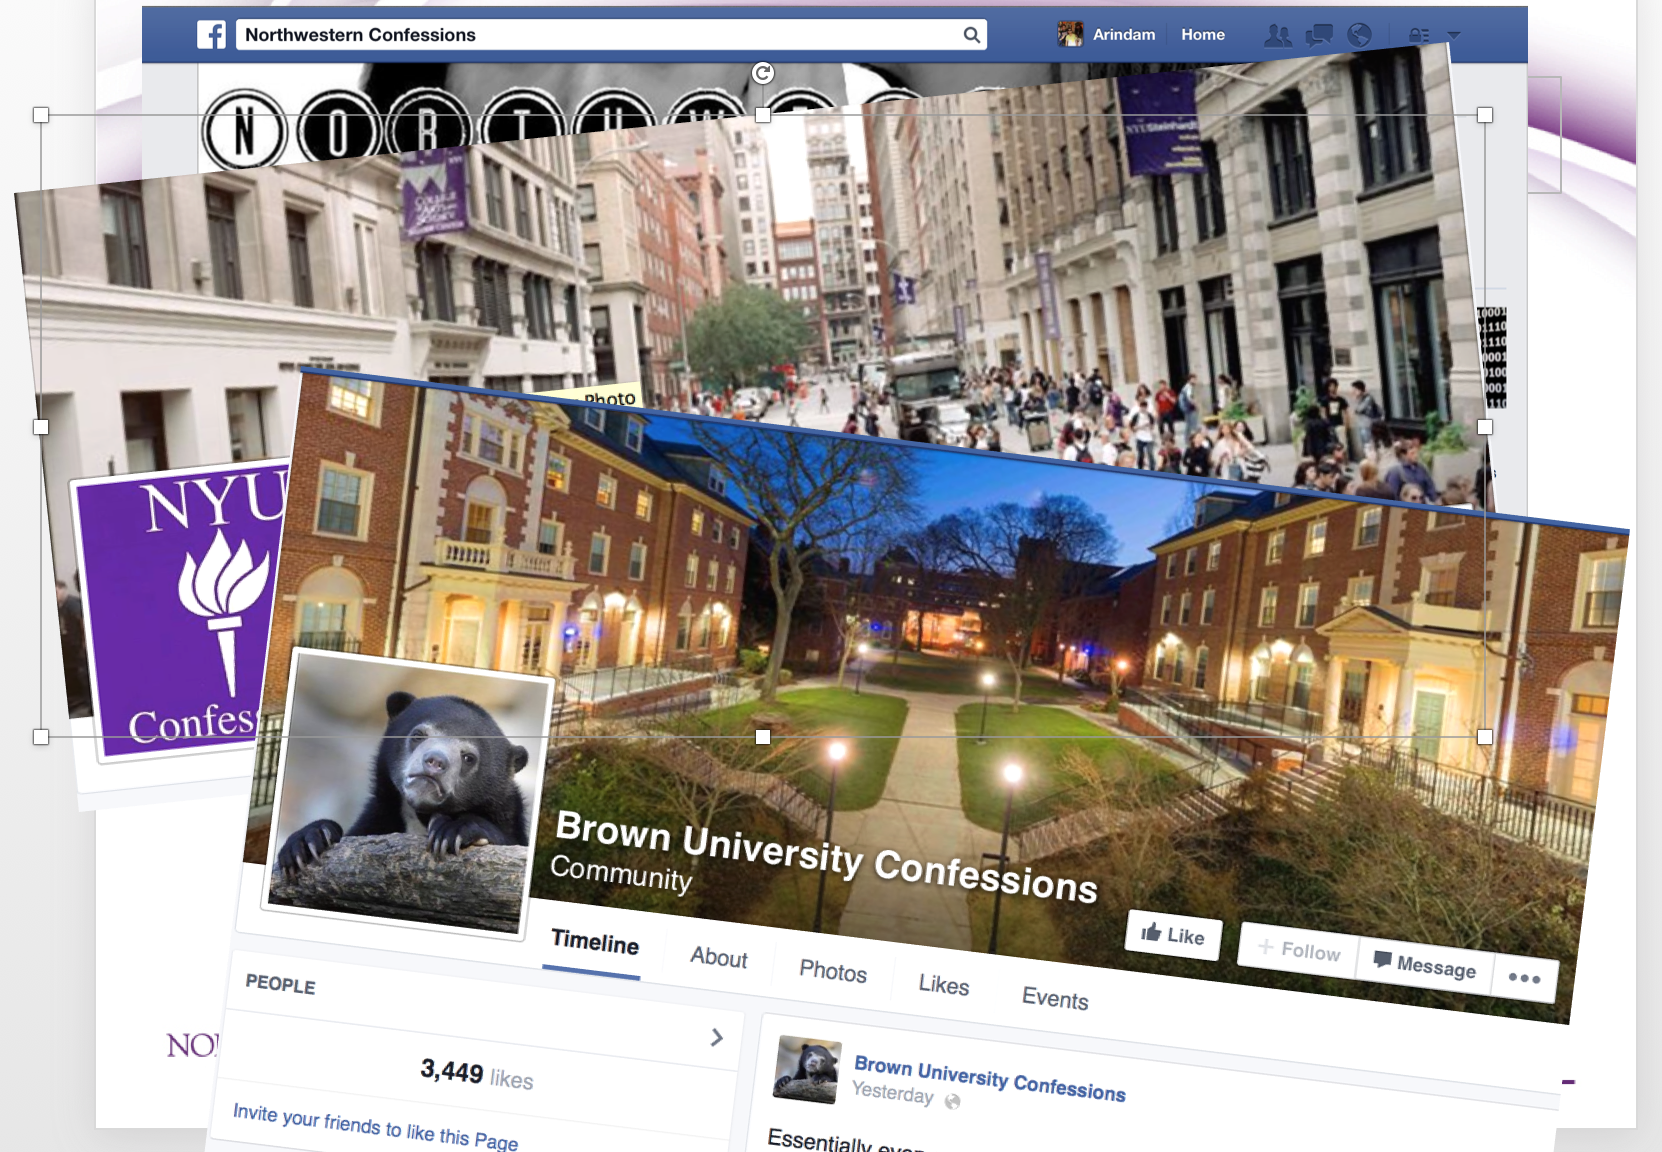
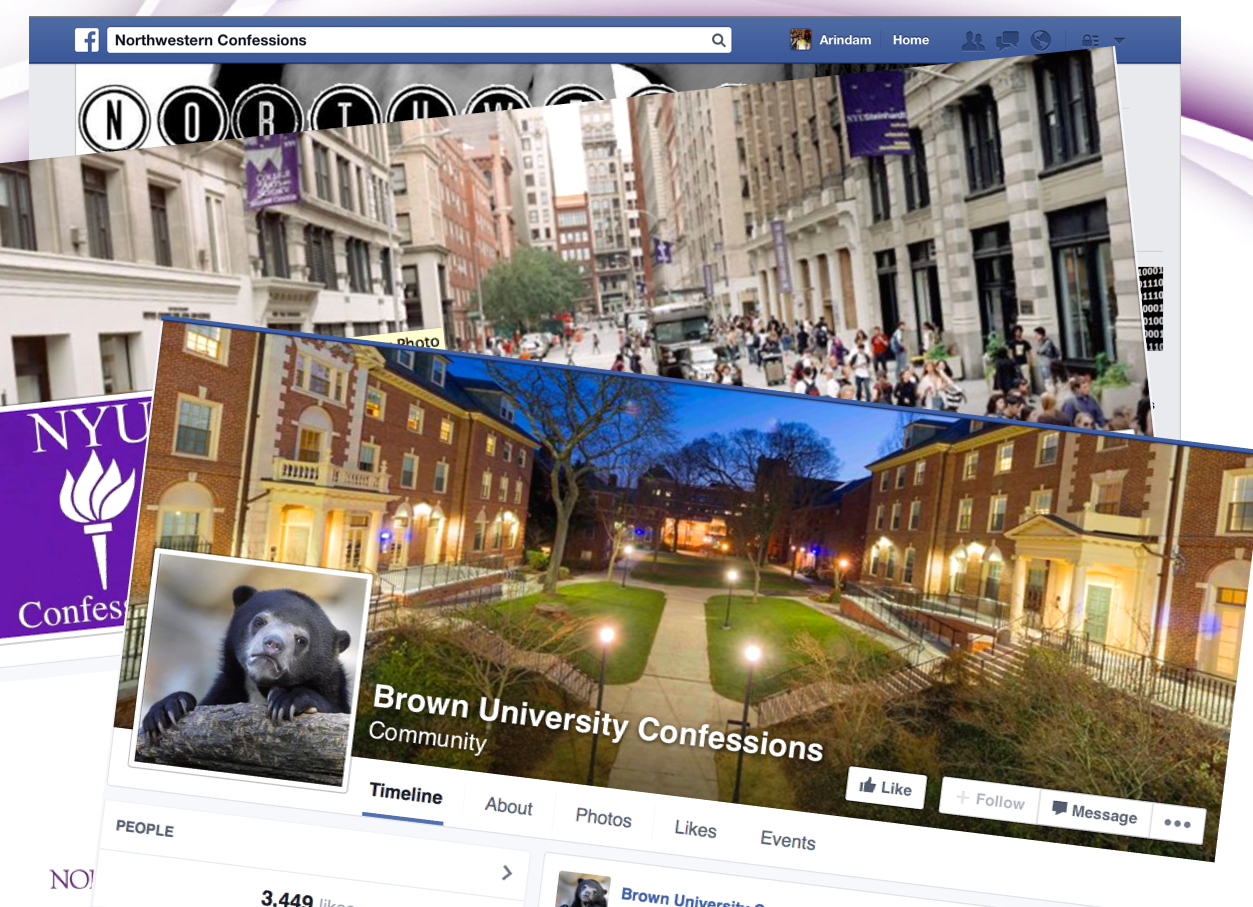
5.7

diff --git a/_site/assets/projects/fcb/index.html b/_site/assets/projects/fcb/index.html
@@ -79,7 +79,7 @@
 	<p align="center"><img src="/assets/img/FCBdog.png" alt="" height="280" width="350" /></p>
 
 	<p>One example of this is the Facebook confession phenomenon, in which anonymous users submit confessions which are viewed and commented on by identified members of a university or school community. Another example is the site Tumblr, which allows easy switching of personae and the maintenance of multiple blogs. This project explores the appeal of novel configurations of anonymity and identifiability in social networking sites.</p>
-		<p align="center"><img src="/assets/img/FCBresult.png" alt="" height="280" width="350" /></p>
+		<p align="center"><img src="/assets/img/FCB.png" alt="" height="280" width="350" /></p>
 </div>
 <h4><font color="purple">Publications: </font></h4>
 <p>J.Birnholtz, N.A.R. Merola, and <b>A. Paul</b>. <a href="/assets/pdf/FCB.pdf" style="text-decoration: none;" onmouseover="this.style.textDecoration = 'underline'" onmouseout="this.style.textDecoration = 'none'"><font color="green">"Is it Weird to Still Be a Virgin?": Anonymous, Locally Targeted Questions on Facebook Confession Boards</font></a>. <i>ACM Conference on Human Factors in Computing Systems 2015.</i></p>

diff --git a/assets/projects/fcb.md b/assets/projects/fcb.md
@@ -10,7 +10,7 @@ title: Arindam Paul
 	<p align="center"><img src="{{ '/assets/img/FCBdog.png' | prepend: site.baseurl }}" alt="" height="280" width="350"></p>
 
 	<p>One example of this is the Facebook confession phenomenon, in which anonymous users submit confessions which are viewed and commented on by identified members of a university or school community. Another example is the site Tumblr, which allows easy switching of personae and the maintenance of multiple blogs. This project explores the appeal of novel configurations of anonymity and identifiability in social networking sites.</p>
-		<p align="center"><img src="{{ '/assets/img/FCBresult.png' | prepend: site.baseurl }}" alt="" height="280" width="350"></p>
+		<p align="center"><img src="{{ '/assets/img/FCB.png' | prepend: site.baseurl }}" alt="" height="280" width="350"></p>
 </div>
 <h4><font color="purple" >Publications: </font></h4>
 <p>J.Birnholtz, N.A.R. Merola, and <b>A. Paul</b>. <a href="/assets/pdf/FCB.pdf" style="text-decoration: none;" onmouseover="this.style.textDecoration = 'underline'" onmouseout="this.style.textDecoration = 'none'" ><font color="green">"Is it Weird to Still Be a Virgin?": Anonymous, Locally Targeted Questions on Facebook Confession Boards</font></a>. <i>ACM Conference on Human Factors in Computing Systems 2015.</i></p>
